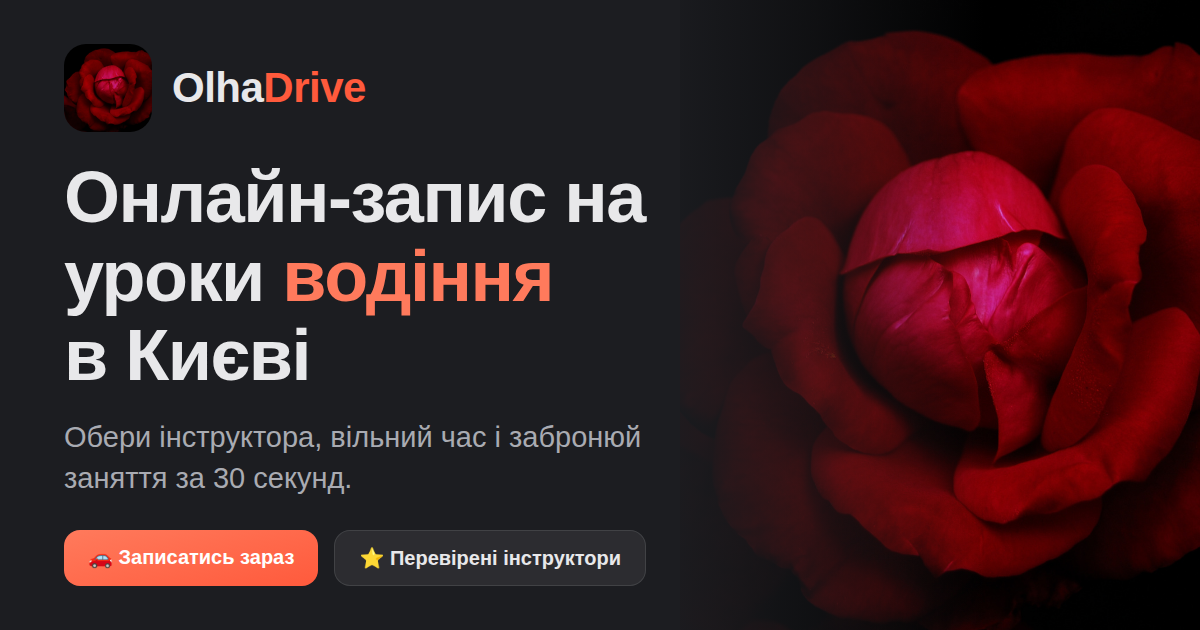
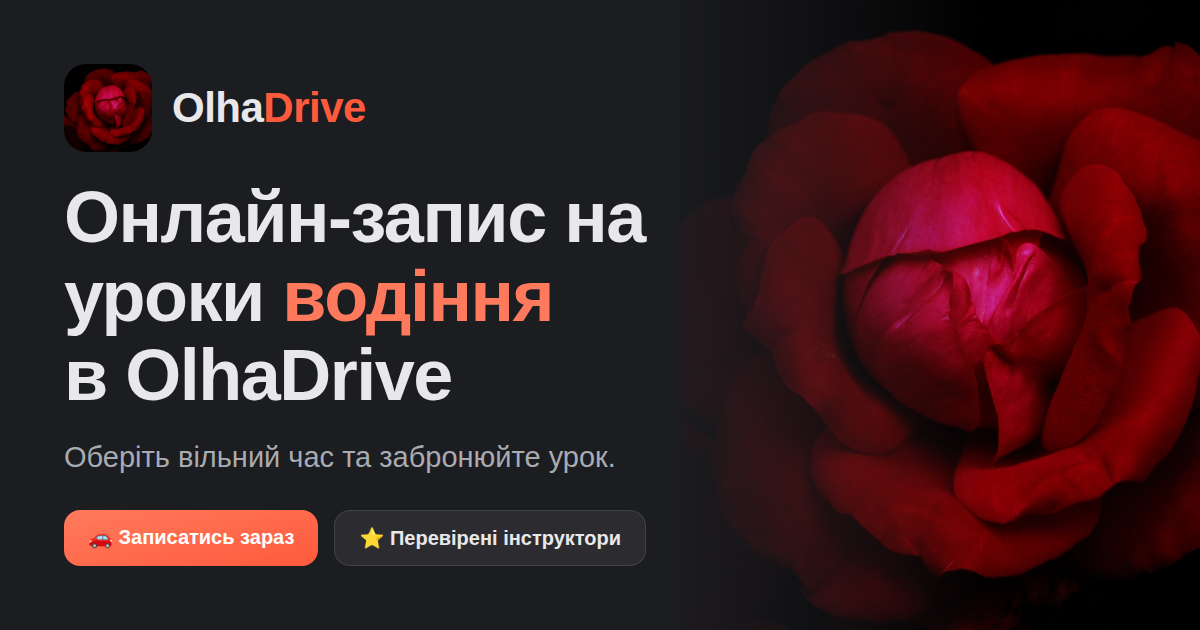
v08.09.19 — оновив текст на OG превью (замінив Києві на OlhaDrive, новий підзаголовок)
Claude-Session: https://claude.ai/code/session_01Aa22m99xwuMps42ycP55yR

Changed region(s): [[0.0308, 0.2714, 0.555, 0.6333], [0.0308, 0.6635, 0.555, 0.9349], [0.0308, 0.0603, 0.3083, 0.2413]]

diff --git a/src/version.js b/src/version.js
@@ -1,1 +1,1 @@
-export const APP_VERSION = "v08.09.18";
+export const APP_VERSION = "v08.09.19";
